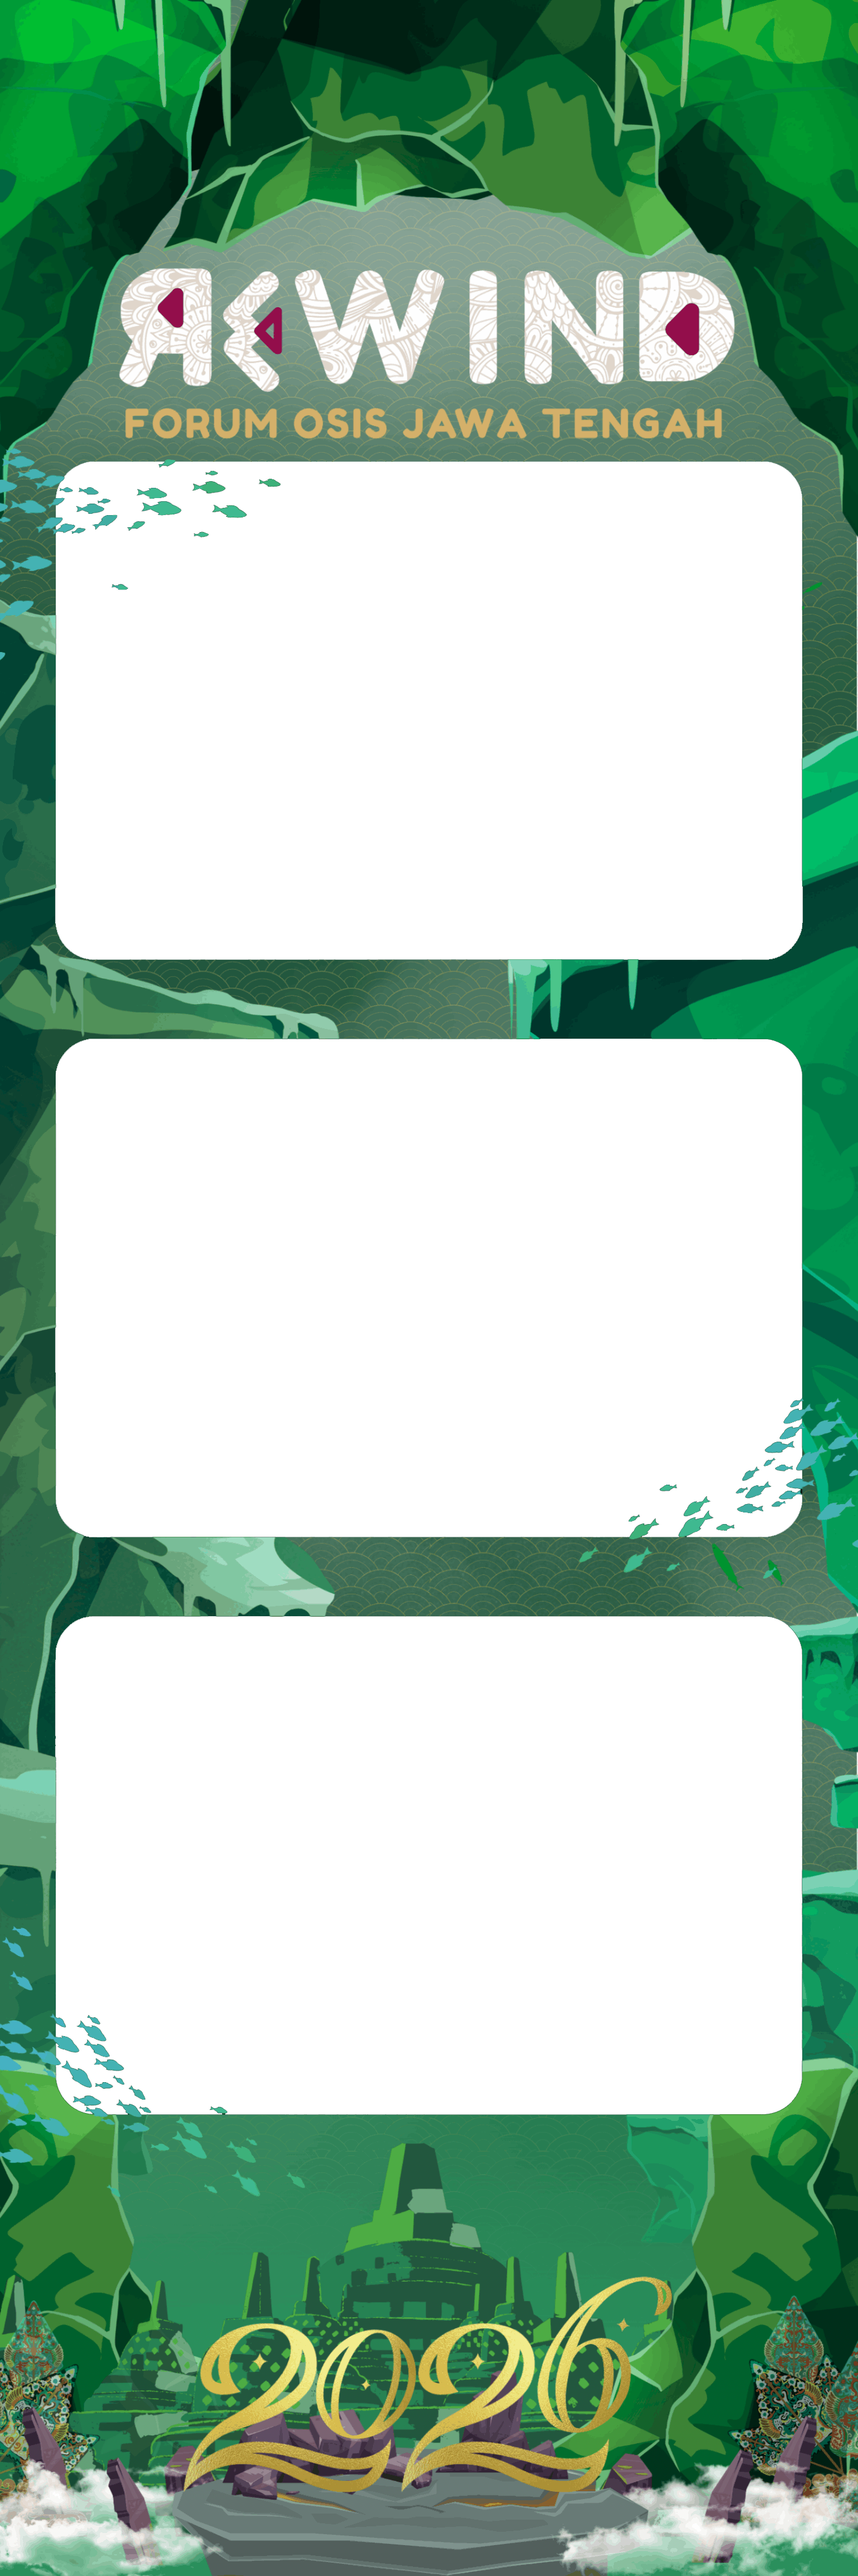
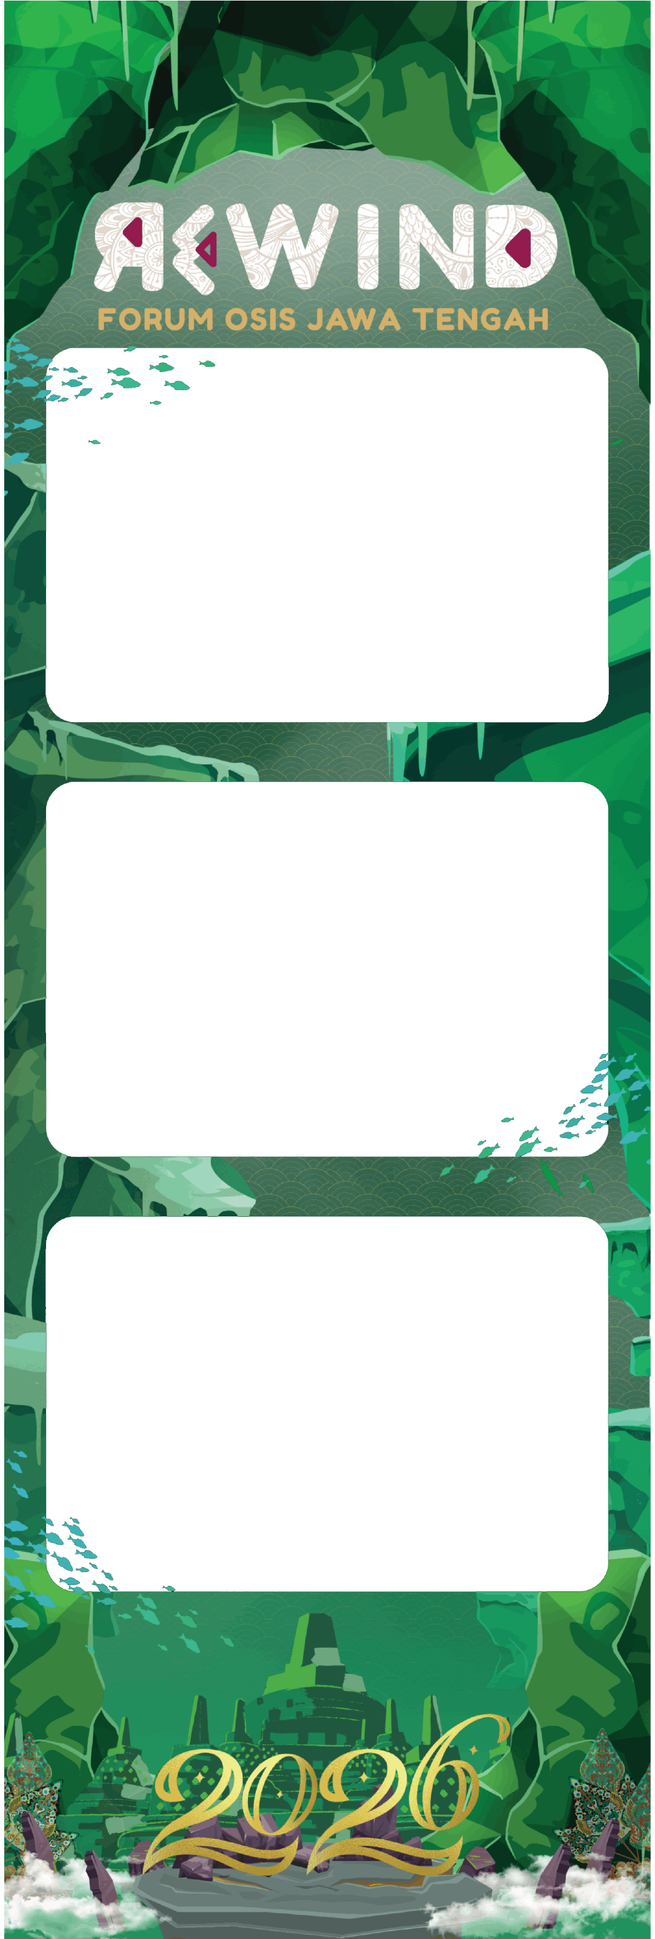
newevent

diff --git a/css/preview.css b/css/preview.css
@@ -9,7 +9,7 @@
 body {
     height: 100vh;
     width: 100%;
-    background-color: #5a8f76;
+    background-color: #06362d;
 }
 
 .page {
@@ -55,7 +55,7 @@ body {
 
 .right {
     flex: 1;
-    background: #96CDB0;
+    background: #155332;
     display: flex;
     flex-direction: column;
     align-items: center;
@@ -75,7 +75,7 @@ body {
 .text {
     font-family: 'Poppins', sans-serif;
     font-size: clamp(0.85rem, 2vw, 1.5rem);
-    color: #081b1b;
+    color: #dee2b1;
     text-align: center;
 }
 
@@ -93,19 +93,19 @@ body {
 
 .countdown-start {
     font-family: 'Poppins', sans-serif;
-    color: #081b1b;
+    color: #dee2b1;
     font-size: clamp(0.8rem, 1.2vw, 2rem);
     margin-top: 0.3px;
 }
 
 button {
     display: inline-block;
-    color: #eee8b2;
+    color: #dee2b1;
     font-family: 'Poppins', sans-serif;
     font-size: clamp(1.5rem, 2.75vw, 3rem);
     font-weight: 500;
     padding: 0.1rem 2.5rem;
-    background-color: #081b1b;
+    background-color: #d1a505;
     border: none;
     border-radius: 2rem;
     text-align: center;

diff --git a/css/camera.css b/css/camera.css
@@ -9,7 +9,7 @@
 body {
     height: 100vh;
     width: 100%;
-    background-color: #5a8f76;
+    background-color: #06362d;
     display: flex;
     flex-direction: column;
     justify-content: center;
@@ -52,7 +52,7 @@ body {
     align-items: center;
     justify-content: center;
     text-align: center;
-    color: #eee8b2;
+    color: #dee2b1;
     padding: 20px;
 }
 
@@ -88,19 +88,19 @@ body {
     font-family: 'Poppins', sans-serif;
     position: absolute;
     font-size: clamp(200px, 30vw, 350px);
-    color: #eee8b2;
+    color: #dee2b1;
     padding-top: 25px;
     pointer-events: none;
 }
 
 button {
     display: inline-block;
-    color: #eee8b2;
+    color: #dee2b1;
     font-family: 'Poppins', sans-serif;
     font-size: clamp(1.5rem, 2.75vw, 3rem);
     font-weight: 500;
     padding: 0.1rem 2.5rem;
-    background-color: #081b1b;
+    background-color: #d1a505;
     border: none;
     border-radius: 2rem;
     text-align: center;

diff --git a/css/qr.css b/css/qr.css
@@ -9,7 +9,7 @@
 body {
     height: 100vh;
     width: 100%;
-    background-color: #5a8f76;
+    background-color: #06362d;
 }
 
 .scan-container {
@@ -20,6 +20,7 @@ body {
     align-items: center;
     justify-content: center;
     text-align: center;
+    color: #dee2b1;
     padding: 1rem 20px 2rem 20px;
 }
 
@@ -74,16 +75,16 @@ body {
 
 .countdown-start {
     font-family: 'Poppins', sans-serif;
-    color: #081b1b;
+    color: #dee2b1;
     font-size: clamp(0.8rem, 1.2vw, 2rem);
 }
 
 button {
-    color: #eee8b2;
+    color: #dee2b1;
     font-family: 'Poppins', sans-serif;
     font-size: clamp(1rem, 1.5vw, 3rem);
     font-weight: 500;
-    background-color: #081b1b;
+    background-color: #d1a505;
     padding: 0.5rem 1.5rem;
     border: none;
     border-radius: 2rem;

diff --git a/css/home.css b/css/home.css
@@ -9,7 +9,7 @@
 body {
     height: 100vh;
     width: 100%;
-    background-color: #5a8f76;
+    background-color: #06362d;
     display: flex;
     flex-direction: column;
     justify-content: center;
@@ -48,18 +48,18 @@ body {
 .text {
     font-family: 'Poppins', sans-serif;
     font-size: clamp(0.85rem, 1.25vw, 1.5rem);
-    color: #081b1b;
+    color: #06362d;
     text-align: center;
     margin-top: 1.5rem;
     margin-bottom: 1.25rem;
 }
 
 button {
-    color: #eee8b2;
+    color: #dee2b1;
     font-family: 'Poppins', sans-serif;
     font-size: clamp(1.5rem, 2.75vw, 3rem);
     font-weight: 500;
-    background-color: #081b1b;
+    background-color: #d1a505;
     padding: 0.5rem 4rem;
     border: none;
     border-radius: 2rem;

diff --git a/js/camera.js b/js/camera.js
@@ -143,13 +143,13 @@ document.addEventListener("DOMContentLoaded", () => {
         const ctx = canvas.getContext("2d")
 
         const slots = [
-            {x: 112, y:512},
-            {x: 112, y:1177},
-            {x: 112, y:1837}
+            {x: 75, y:575},
+            {x: 75, y:1290},
+            {x: 75, y:2005}
         ]
 
-        const w = 856
-        const h = 569
+        const w = 930
+        const h = 619
 
         for (let i = 0; i < 3; i++) {
             const img = new Image()

diff --git a/home.html b/home.html
@@ -10,7 +10,7 @@
     <div class="home-container">
         <div class="menu">
             <div class="logo">
-            <img src="assets/Logo - Transparent RGB.png" alt="logo">
+            <img src="assets/logo.png" alt="logo">
             </div>
             <div class="text">
                 <h1>Welcome to Photobooth</h1>
